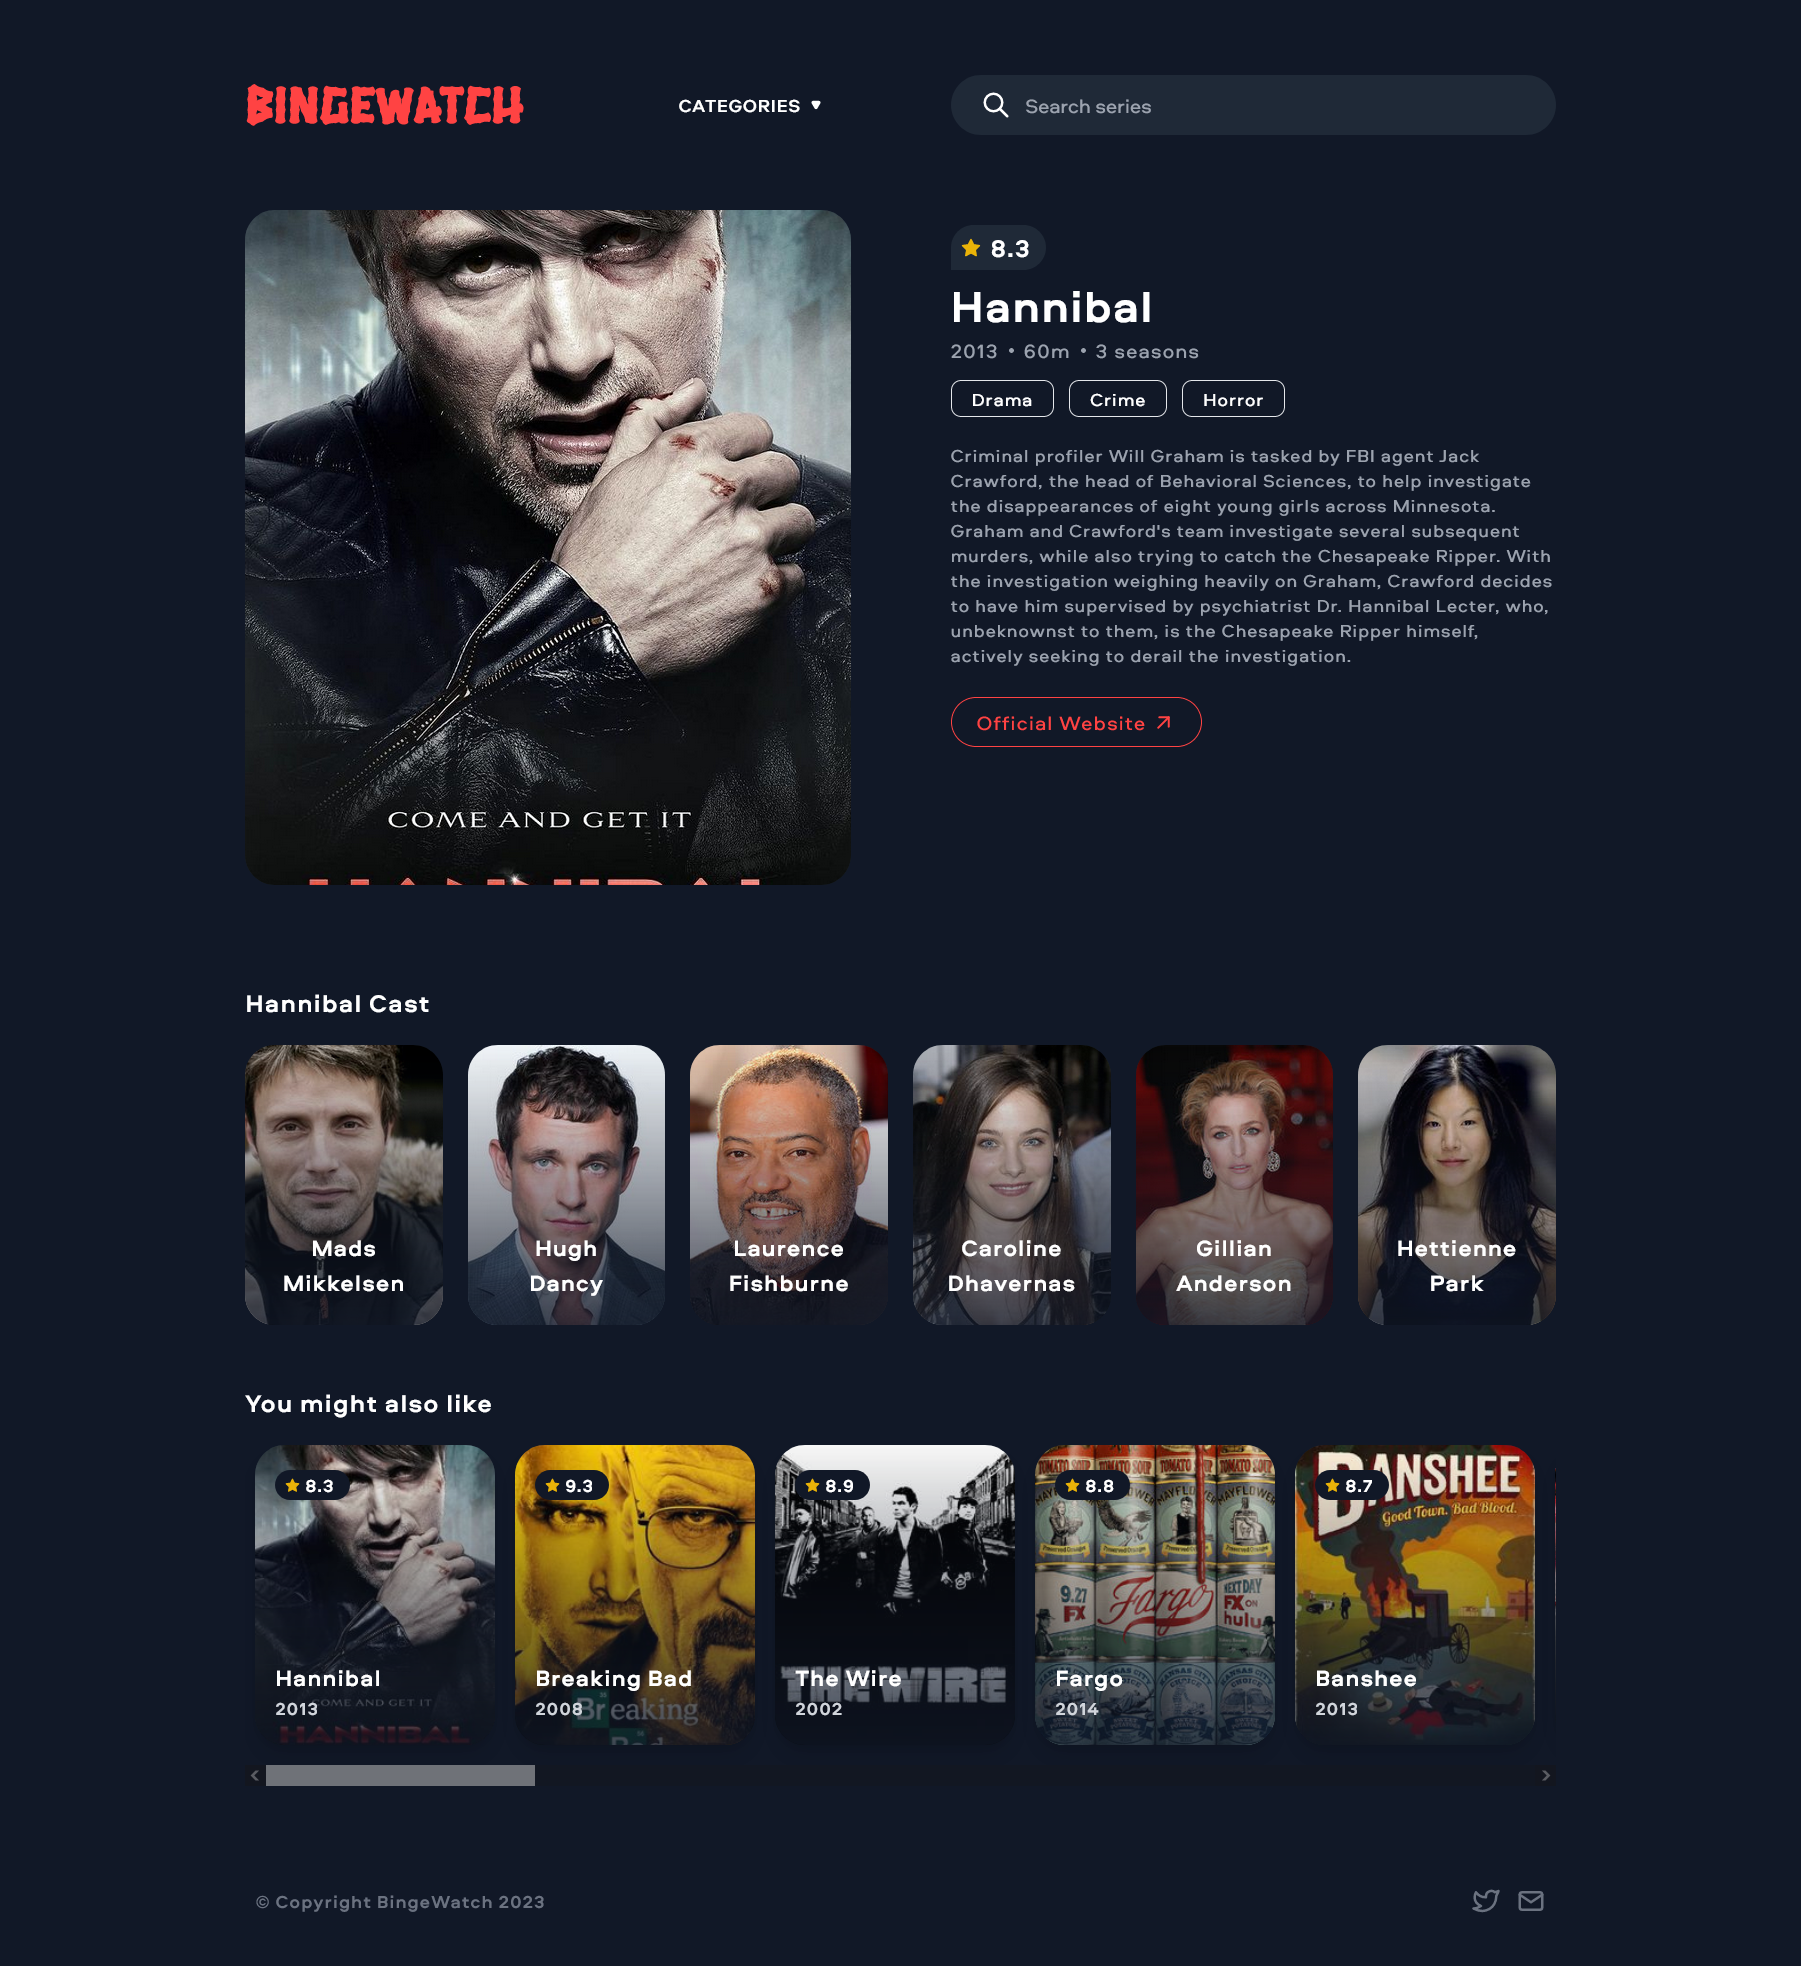
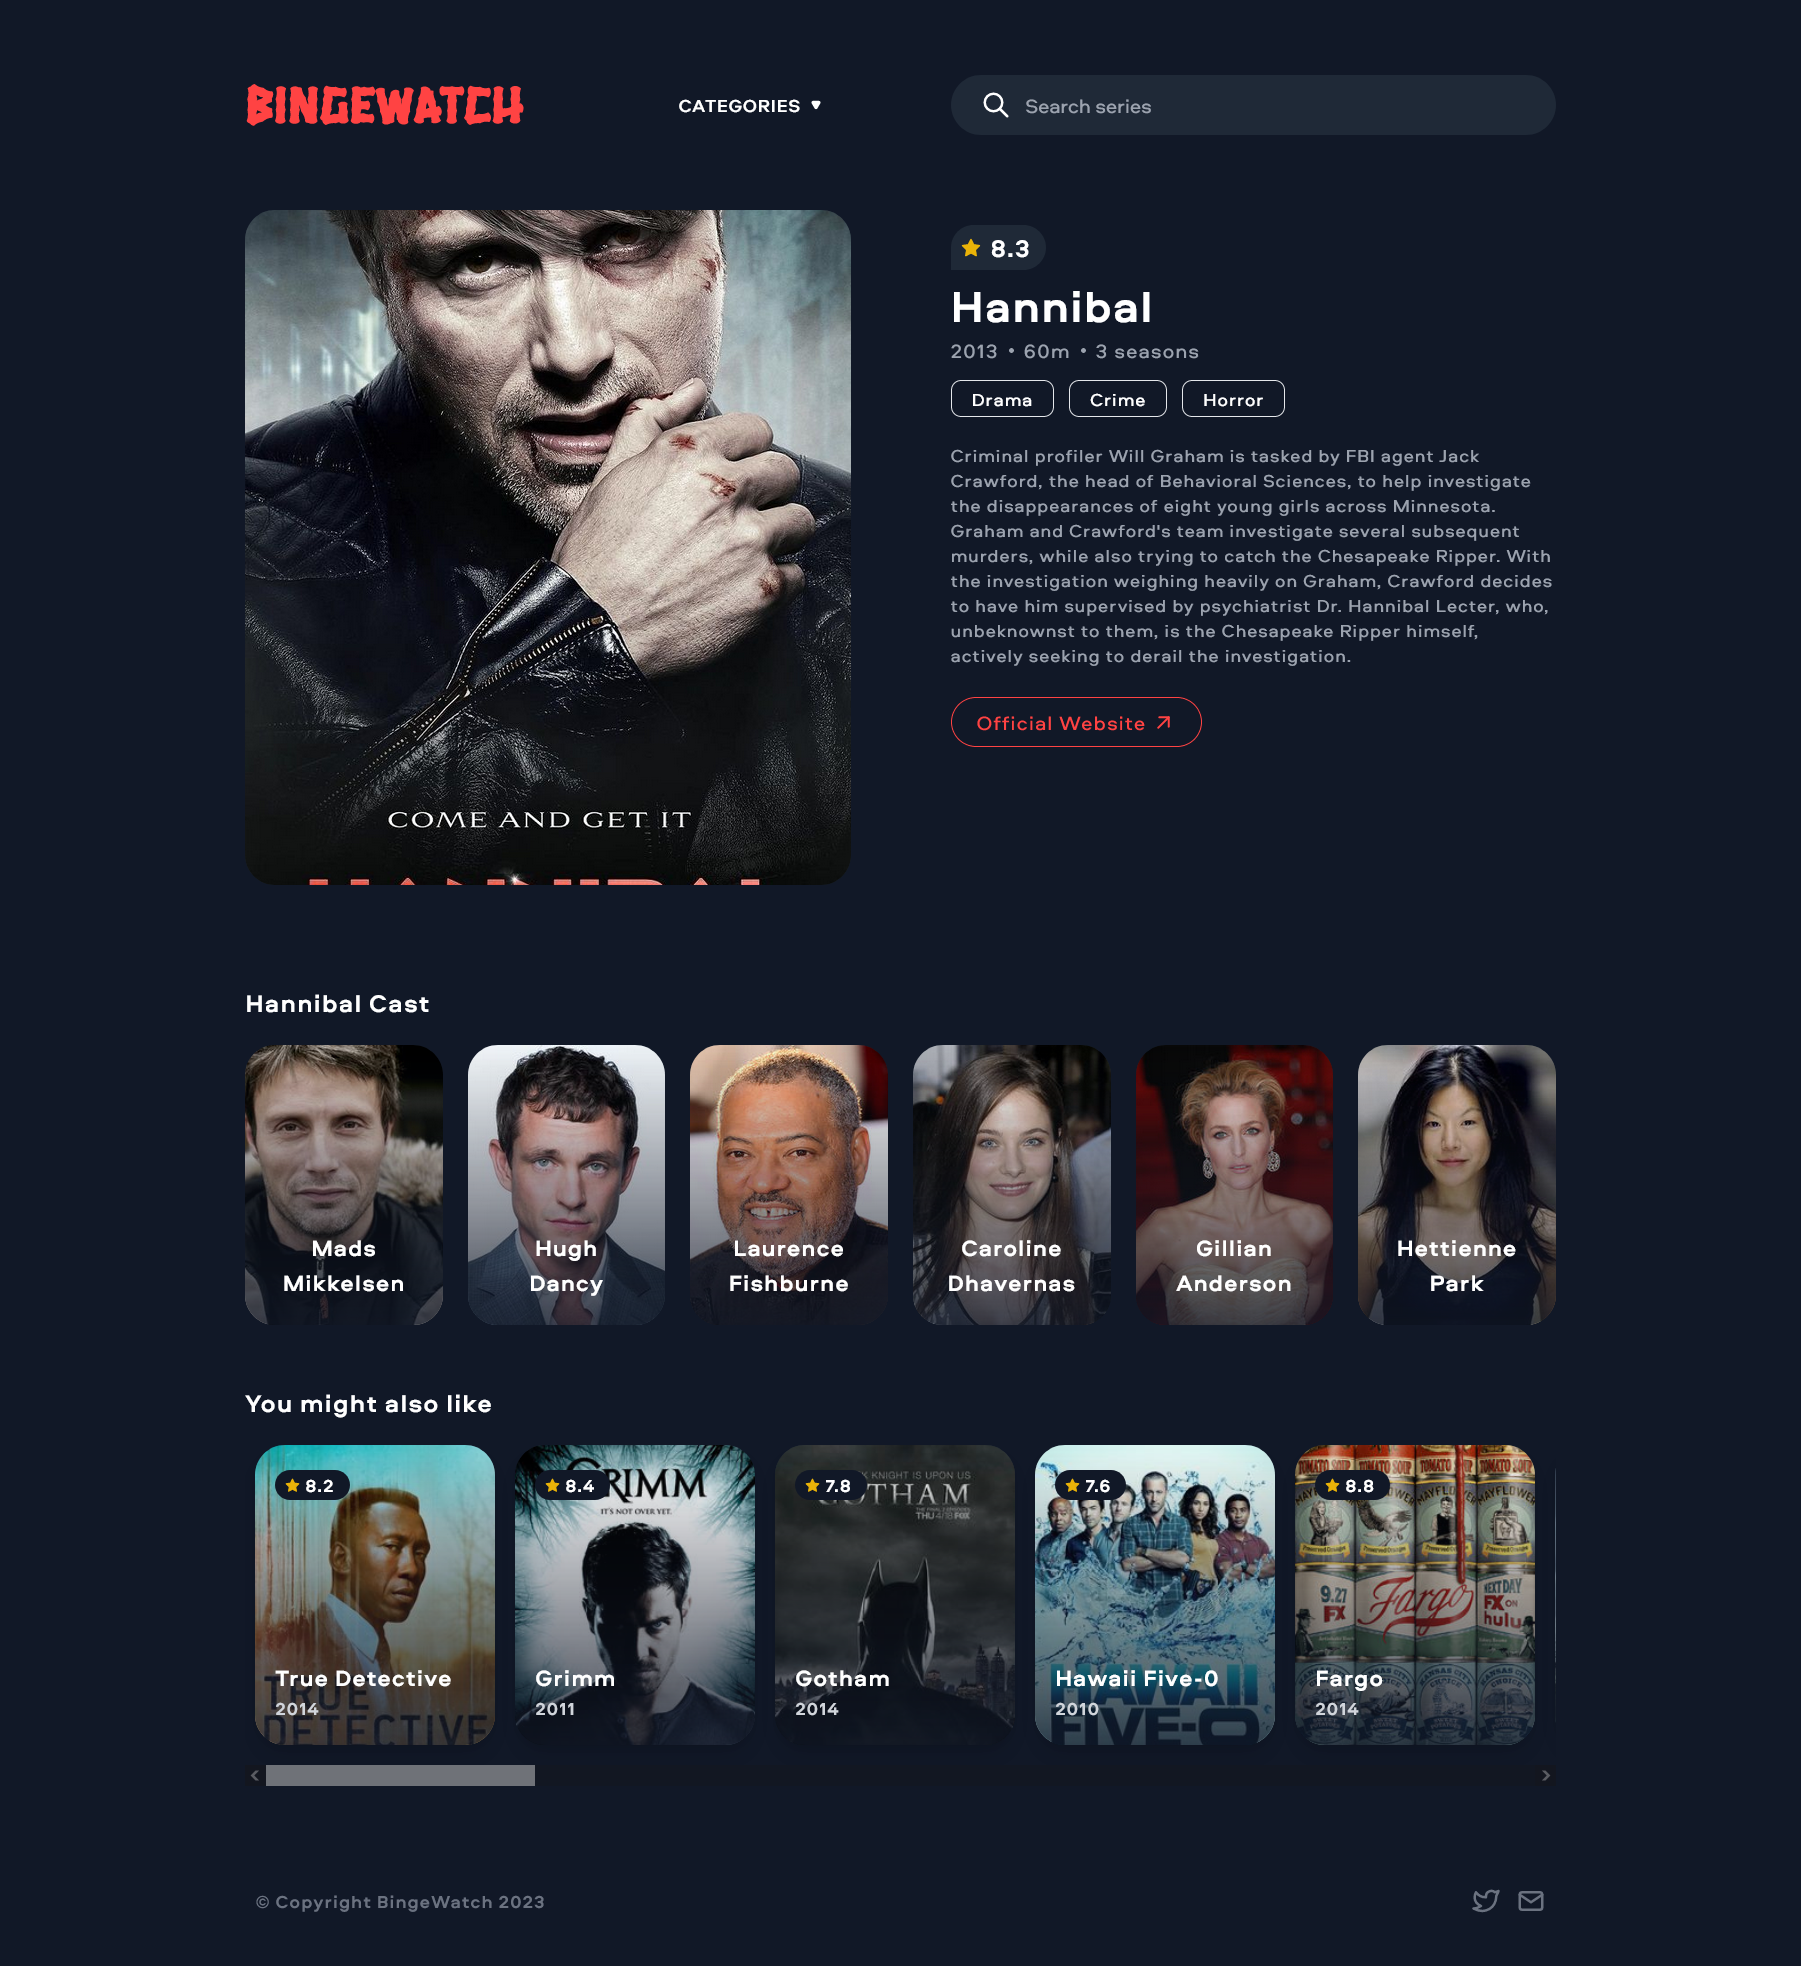
Fixing small bug that allowed the same show to be suggested as "similar show", Updating show details page's screenshot

Changed region(s): [[0.1244, 0.7136, 0.8706, 0.8998]]

diff --git a/src/stores/useTVShowsStore.ts b/src/stores/useTVShowsStore.ts
@@ -48,7 +48,10 @@ export const useTVShowsStore = defineStore(
      */
     const twoRandomShows: ComputedRef<TVShow[]> = computed(() => {
       const randomNum = randomIntFromInterval(0, tvShows.value.length - 1);
-      return new Array<TVShow>(tvShows.value[randomNum], tvShows.value[randomNum + 1]);
+      return new Array<TVShow>(
+        tvShows.value[randomNum],
+        tvShows.value[randomNum + 1]
+      );
     });
 
     /**
@@ -113,7 +116,9 @@ export const useTVShowsStore = defineStore(
           break;
         }
       }
-      return Array.from(new Set(similarTVShows)).slice(0, similarShowsGoal);
+      return Array.from(new Set(similarTVShows))
+        .filter((show: TVShow) => show.name != currentTVShow.name)
+        .slice(0, similarShowsGoal);
     }
 
     onMounted(fetchTVShows);
